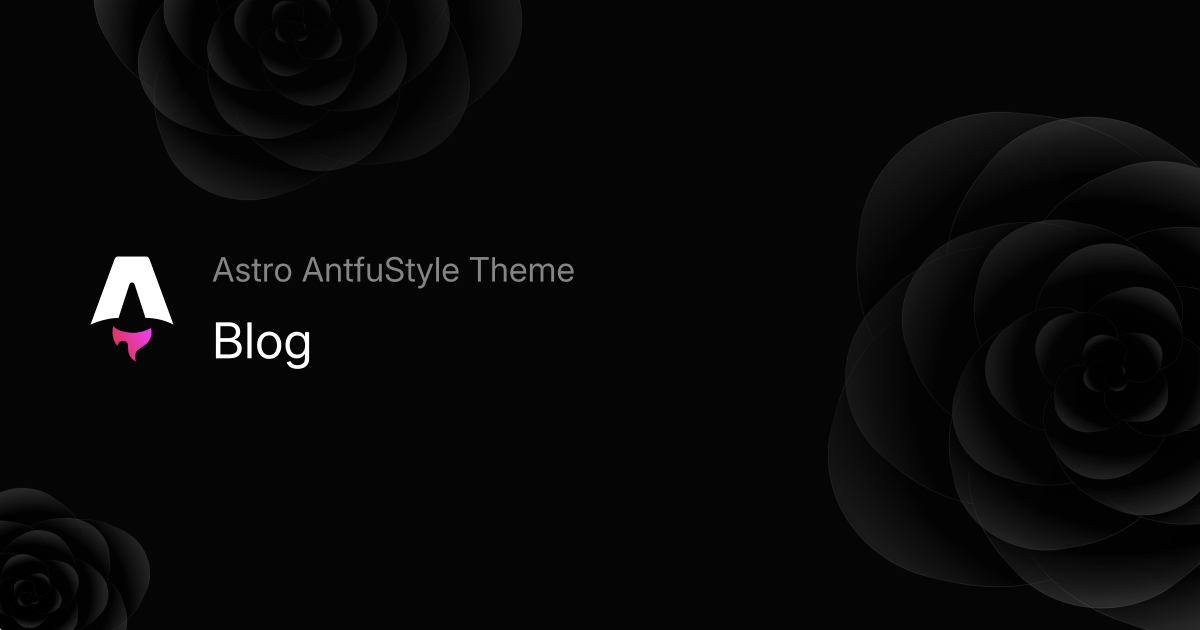
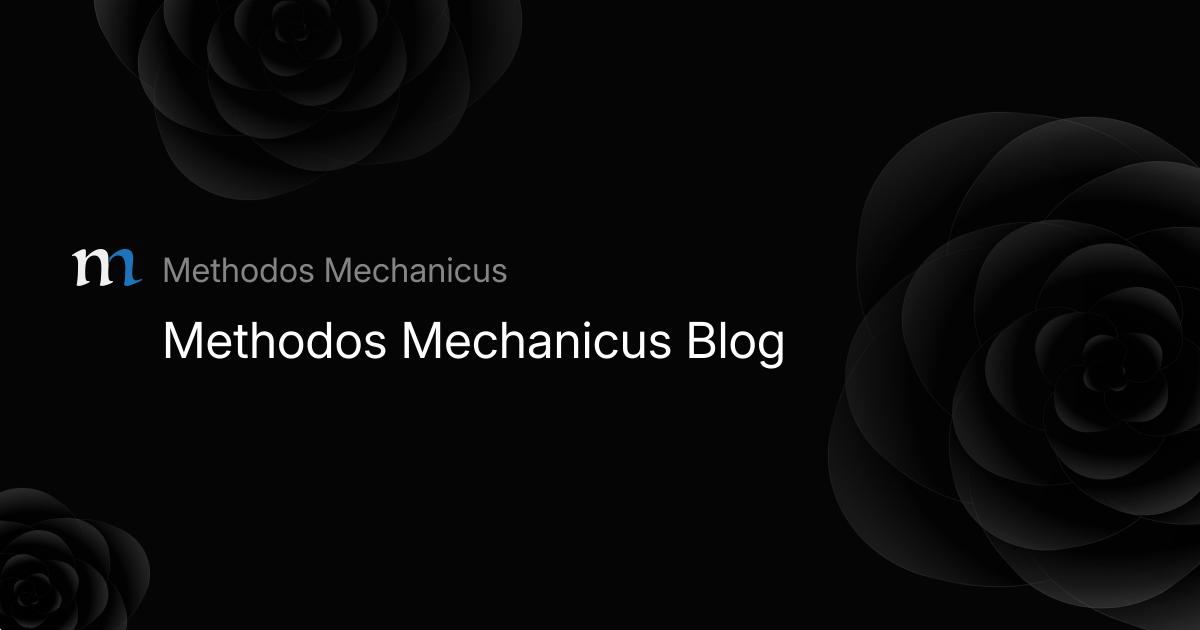
OG-Images fix & Added About Me

Changed region(s): [[0.0617, 0.3921, 0.6783, 0.6032]]

diff --git a/plugins/og-template/markup.ts b/plugins/og-template/markup.ts
@@ -26,33 +26,33 @@ export const ogImageMarkup = (
     <div tw="flex items-center justify-start w-full px-18" style="gap: 20px">
       <div tw="self-start flex justify-center items-center">
         <svg
+          id="Layer_2"
+          data-name="Layer 2"
           xmlns="http://www.w3.org/2000/svg"
-          width="7.5em"
-          height="7.5em"
-          viewBox="0 0 32 32"
+          viewBox="0 0 70.05 36.94"
         >
-          <path
-            fill="url(#vscodeIconsFileTypeAstro0)"
-            d="M11.025 20.499c-.532 1.75-.154 4.184 1.105 5.331v-.042l.042-.112c.154-.741.756-1.203 1.526-1.175c.713.014 1.12.392 1.217 1.217c.042.308.042.616.056.938v.098c0 .7.196 1.371.588 1.959c.35.56.84.993 1.497 1.287l-.028-.056l-.028-.112c-.49-1.469-.14-2.49 1.147-3.358l.392-.266l.868-.573a4.25 4.25 0 0 0 1.791-3.037c.07-.532 0-1.05-.154-1.553l-.21.14c-1.945 1.035-4.17 1.4-6.325.98c-1.301-.197-2.56-.56-3.498-1.652z"
-          ></path>
-          <path
-            fill="#fff"
-            d="M4.925 20.191s3.736-1.82 7.486-1.82l2.84-8.759c.098-.42.406-.7.756-.7s.644.28.756.714l2.826 8.746c4.45 0 7.487 1.82 7.487 1.82L20.709 2.84c-.168-.518-.49-.84-.896-.84h-7.612c-.406 0-.7.322-.896.84z"
-          ></path>
           <defs>
-            <linearGradient
-              id="vscodeIconsFileTypeAstro0"
-              x1="8.19"
-              x2="16.91"
-              y1="23"
-              y2="18.89"
-              gradientTransform="translate(-.673 -2.198)scale(1.3993)"
-              gradientUnits="userSpaceOnUse"
-            >
-              <stop offset="0" stop-color="#d83333"></stop>
-              <stop offset="1" stop-color="#f041ff"></stop>
-            </linearGradient>
+            <style>
+              .cls-1 {
+                fill: #1c75bc;
+              }
+              .cls-2 {
+                fill: #f0f0f0;
+              }
+            </style>
           </defs>
+          <g id="Layer_1-2" data-name="Layer 1">
+            <g>
+              <path
+                class="dark:fill-#eee dark:stroke-#eee cls-2"
+                d="M34.13,1.94c-1.39-1.3-3.19-1.94-5.4-1.94-1.68,0-3.28.34-4.79,1.01-1.51.67-2.92,1.46-4.21,2.38-1.3.91-2.46,1.87-3.49,2.88-1.03,1.01-1.88,1.82-2.56,2.45,0-.38.02-.85.07-1.4.05-.55.08-1.12.11-1.69.02-.58.05-1.13.07-1.66.02-.53.04-1.01.04-1.44,0-.91-.2-1.54-.61-1.87-.41-.33-.9-.5-1.48-.5-.86,0-1.97.3-3.31.9-1.34.6-2.64,1.26-3.89,1.98-1.25.72-2.33,1.39-3.24,2.02-.91.62-1.39.96-1.44,1.01v.5c0,.34.14.48.43.43.24-.05.49-.11.76-.18.26-.07.59-.11.97-.11.91,0,1.79.62,2.63,1.87.84,1.25,1.26,3.19,1.26,5.83s-.02,5.06-.07,6.98c-.05,1.92-.11,3.62-.18,5.11-.07,1.49-.19,2.87-.36,4.14-.17,1.27-.35,2.65-.54,4.14-.05.19-.12.42-.22.68-.1.26-.14.42-.14.47,0,.24.23.46.68.65.46.19,1.09.29,1.91.29.77,0,1.7-.17,2.81-.5,1.1-.34,2.18-.72,3.24-1.15,1.06-.43,1.99-.85,2.81-1.26.82-.41,1.32-.71,1.51-.9.14-.1.17-.33.07-.72-.1-.38-.26-.53-.5-.43-.19.1-.55.14-1.08.14s-.96-.13-1.3-.4c-.34-.26-.62-.74-.86-1.44-.24-.7-.41-1.64-.5-2.84-.1-1.2-.14-2.71-.14-4.54,0-1.39.05-2.63.14-3.71.1-1.08.19-2.12.29-3.13.24-2.21.73-3.91,1.48-5.11.74-1.2,1.64-2.21,2.7-3.02.53-.38,1.18-.71,1.94-.97.77-.26,1.63-.4,2.59-.4,1.63,0,2.92.42,3.85,1.26.94.84,1.64,1.87,2.12,3.1.48,1.22.78,2.53.9,3.92.12,1.39.18,2.66.18,3.82,0,2.21-.05,4.26-.14,6.16-.1,1.9-.21,3.56-.32,5-.12,1.44-.25,2.62-.4,3.53-.14.91-.29,1.49-.43,1.73-.19.38-.29.72-.29,1.01,0,.24.28.44.83.61.55.17,1.16.25,1.84.25.53,0,1.32-.14,2.38-.43,1.06-.29,2.14-.62,3.24-1.01,1.1-.38,2.11-.8,3.02-1.26.91-.46,1.49-.83,1.73-1.12.19-.29.22-.55.07-.79-.1-.14-.19-.26-.29-.36-.29.05-.48.08-.58.11-.1.02-.34.04-.72.04-1.1,0-1.88-.55-2.34-1.66-.46-1.1-.68-3.07-.68-5.9,0-1.06.01-1.97.04-2.74.02-.77.05-1.46.07-2.09.02-.62.05-1.2.07-1.73.02-.53.06-1.06.11-1.58l-.22-7.63c-.1-3.22-.84-5.47-2.23-6.77Z"
+              />
+              <path
+                class="cls-1"
+                d="M69.98,29.99c-.05-.17-.14-.25-.29-.25h-.07c-.19.14-.5.3-.94.47-.43.17-.91.34-1.44.5-.53.17-1.06.31-1.58.43-.53.12-1.01.18-1.44.18-2.64,0-3.96-2.5-3.96-7.49,0-1.1.05-2.33.14-3.67.1-1.34.22-2.7.36-4.07.14-1.37.26-2.67.36-3.92.1-1.25.14-2.35.14-3.31,0-5.9-2.78-8.86-8.35-8.86-1.58,0-3.14.31-4.68.94-1.54.62-2.99,1.39-4.36,2.3-1.37.91-2.6,1.87-3.71,2.88-1.1,1.01-2.04,1.87-2.81,2.59l.14,5.04c.9-1.81.59-1.14,1.19-2.41.6-1.27,1.43-2.31,2.48-3.13.58-.43,1.25-.83,2.02-1.19.77-.36,1.7-.54,2.81-.54,1.2,0,2.26.2,3.17.61.91.41,1.68,1.12,2.3,2.12.62,1.01,1.1,2.36,1.44,4.07.34,1.7.5,3.85.5,6.44,0,2.21-.06,4.22-.18,6.05-.12,1.82-.23,3.43-.32,4.82-.1,1.1-.2,2.04-.32,2.81-.12.77-.23,1.34-.32,1.73-.1.62.16,1.08.76,1.37.6.29,1.24.43,1.91.43.77,0,1.91-.25,3.42-.76,1.51-.5,3.05-1.08,4.61-1.73,1.56-.65,2.98-1.28,4.25-1.91,1.27-.62,2.08-1.03,2.41-1.22.1-.1.19-.18.29-.25.1-.07.14-.23.14-.47s-.02-.44-.07-.61Z"
+              />
+            </g>
+          </g>
         </svg>
       </div>
 

diff --git a/src/config.ts b/src/config.ts
@@ -3,7 +3,7 @@ import type { Site, Ui, Features } from './types'
 export const SITE: Site = {
   website: 'https://mmlac.com',
   base: '/',
-  title: 'Blog of Markus Lachinger',
+  title: 'Methodos Mechanicus',
   description:
     'Posts about software development, open source, and other tech topics by Markus Lachinger.',
   author: 'Markus Lachinger',
@@ -31,6 +31,12 @@ export const UI: Ui = {
       title: 'Projects',
       displayMode: 'alwaysText',
       text: 'Projects',
+    },
+    {
+      path: '/',
+      title: 'About Me',
+      displayMode: 'alwaysText',
+      text: 'About Me',
     },
   ],
   socialLinks: [
